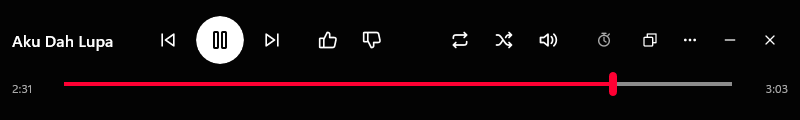
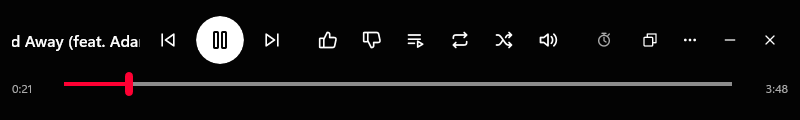
README and layout screenshots for the resizable Compact player
The Compact view now resizes from a 360x56 strip to a tall view. Layout
screenshots are recaptured from the merged build (disposable signed-out
profile, 100% scale) so they show the Playlists button; the two captures
that predated it are removed. Regenerate with the capture run recorded in
artifacts/compact-merge-e2e/capture-report.json.

diff --git a/README.md b/README.md
@@ -34,7 +34,7 @@ Nativune takes a narrower approach. It puts the official website in a native Win
 
 ## Features
 
-- **Full and Compact views in one window.** The Compact view is a native horizontal mini player, 800 × 180 by default, with a fixed height and adjustable width. It has artwork, title, elapsed time and duration, a seek bar, previous/play/next, like/dislike, a **Playlists** menu, repeat, shuffle, volume and a pause timer. A short notice under the title confirms actions such as a dislike or a started playlist.
+- **Full and Compact views in one window.** The Compact view is a native mini player, 800 × 180 by default. You can resize it freely, from a 360 × 56 strip to a tall view with large artwork; the layout adapts, and controls that don't fit move into its More menu. It has artwork, title, elapsed time and duration, a seek bar, previous/play/next, like/dislike, a **Playlists** menu, repeat, shuffle, volume and a pause timer. A short notice under the title confirms actions such as a dislike or a started playlist.
 - **Playlists menu in Compact.** It lists the playlists that YouTube Music shows in its own sidebar when you're signed in, and plays the one you choose by pressing that playlist's own Play button on the website.
 - **Native toolbar** in the full view, in two groups: Compact toggle, back, forward and Home on the left; app volume, pause timer, More (`…`) and the update indicator on the right. Previous, play/pause and next live in More, next to the website's own player bar.
 - **Taskbar thumbnail buttons** for previous, play/pause and next.
